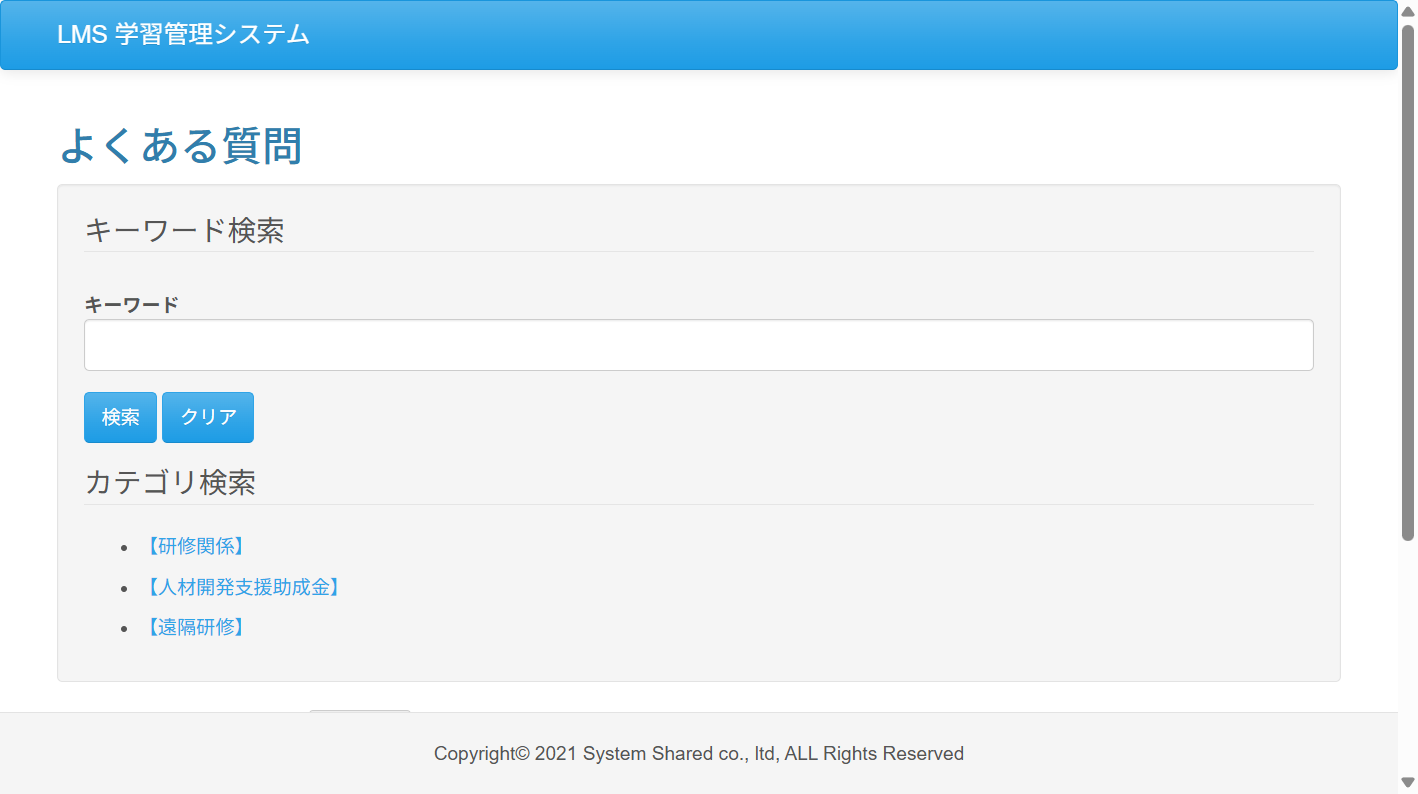
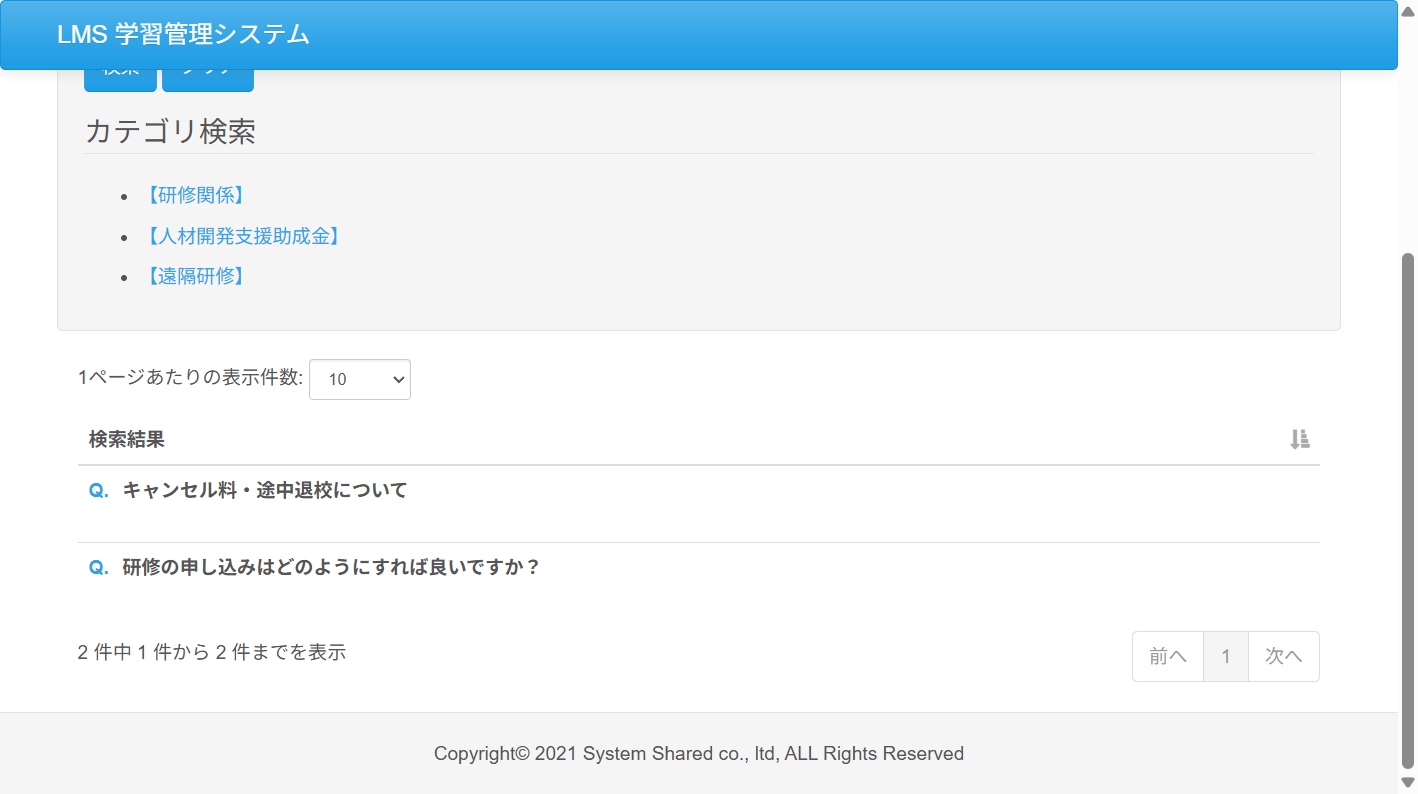
fix:Case06.テスコトードのエビデンスについての指摘をレビューの際に受け、その部分の修正を行った。

diff --git a/test_code_creation_name/src/test/java/jp/co/sss/lms/ct/f02_faq/Case06.java b/test_code_creation_name/src/test/java/jp/co/sss/lms/ct/f02_faq/Case06.java
@@ -125,6 +125,9 @@ public class Case06 {
 
 		assertTrue(questionItem.isDisplayed(), "カテゴリに紐づく質問項目が画面に表示されていません。");
 
+		((org.openqa.selenium.JavascriptExecutor) webDriver).executeScript("arguments[0].scrollIntoView(true);",
+				questionItem);
+
 		String questionText = questionItem.getText();
 		assertTrue(questionText.contains("キャンセル料・途中退校について"),
 				"選択したカテゴリの検索結果に、期待される具体的な質問文が含まれていません。");
@@ -155,9 +158,12 @@ public class Case06 {
 
 		assertTrue(answer.isDisplayed(), "質問に対する答えが表示されていません");
 
+		((org.openqa.selenium.JavascriptExecutor) webDriver).executeScript("arguments[0].scrollIntoView(true);",
+				answer);
+
 		String actualText = answer.getText();
 		assertTrue(actualText.contains("受講者の退職や解雇等"),
-				"回答がありません");
+				"回答エリアに期待される具体的な文言が含まれていません。");
 
 		getEvidence(new Object() {
 		});
